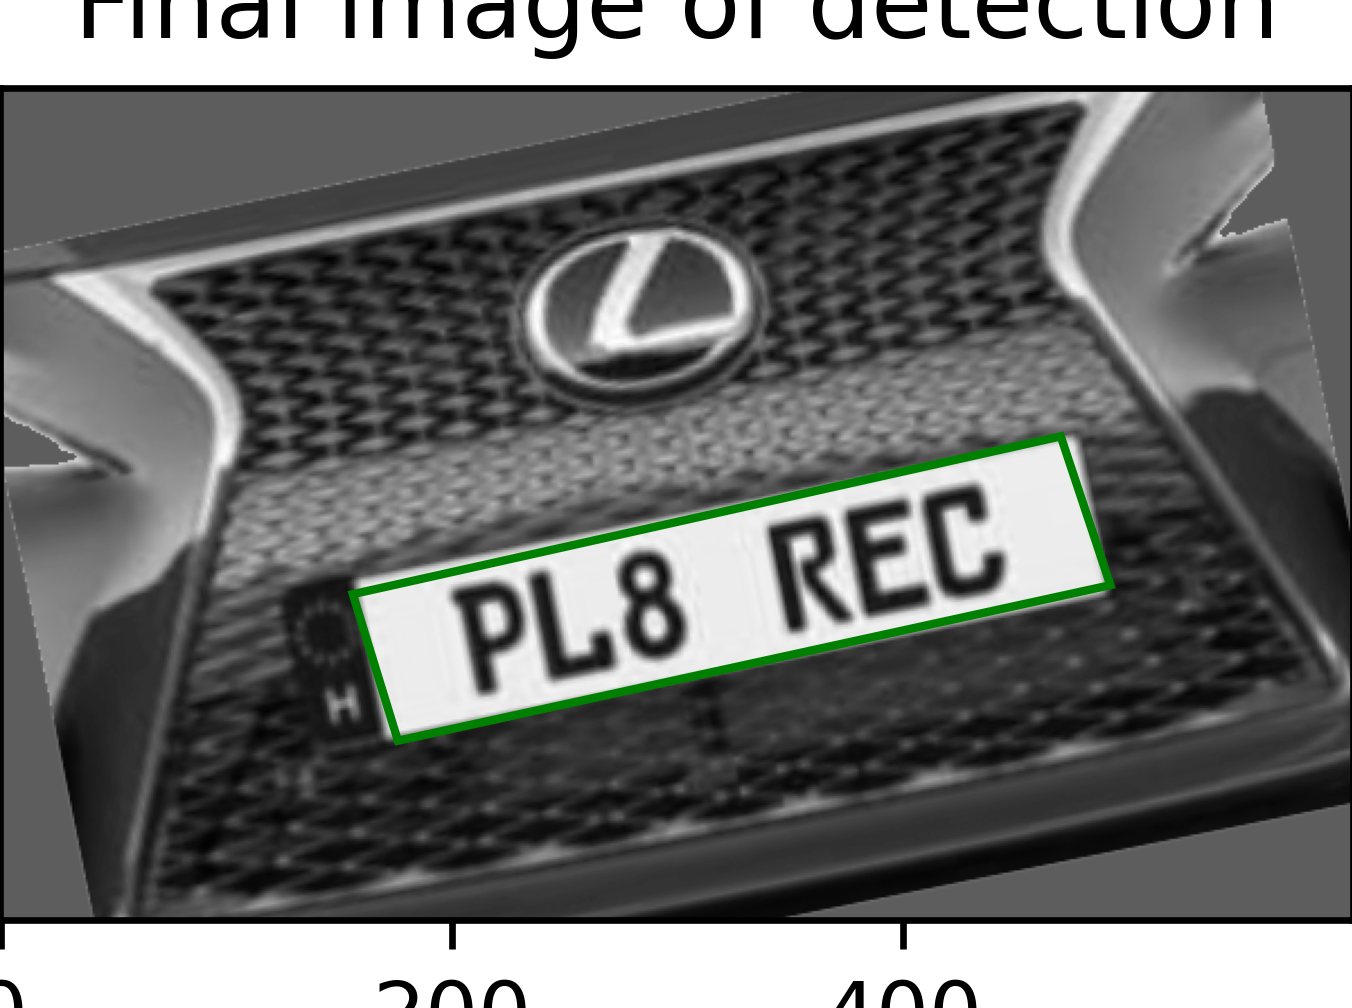
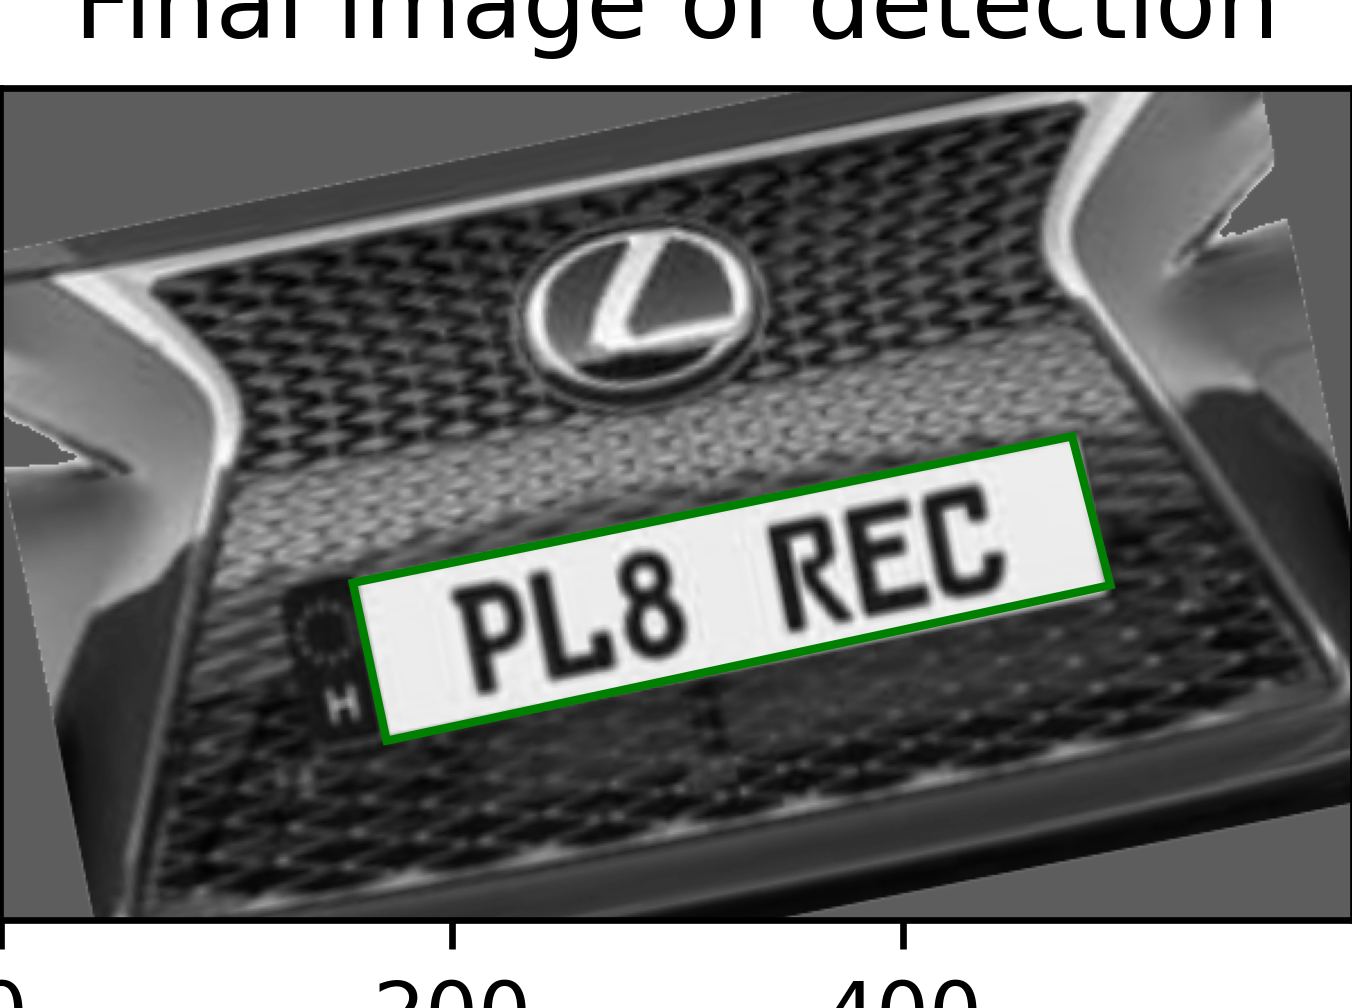
implemented detection for counterclockwise rotation aswell

diff --git a/CS373Extension.py b/CS373Extension.py
@@ -222,8 +222,8 @@ def computeConnectedComponentLabeling(pixel_array, image_width, image_height):
     
     return pixel_array, labels
 
-# Points in order, xmin,ymin,xmax,ymax
-def computeBoundaryBoxBounds(image_width, image_height, connectedComponents_array, largestComponentLabel):
+# Points in order, xmin,ymin,xmax,ymax for a clockwise rotation
+def computeBoundaryBoxBoundsClockwise(image_width, image_height, connectedComponents_array, largestComponentLabel):
     points = [[0 for x in range(2)] for y in range(4)]
     points[0][0] = image_width
     points[1][1] = image_height
@@ -237,6 +237,24 @@ def computeBoundaryBoxBounds(image_width, image_height, connectedComponents_arra
                 if(points[2][0]<x):
                     points[2] = [x, y]
                 if(points[3][1]<=y):
+                    points[3] = [x, y]
+    return points
+
+# Points in order, xmin,ymin,xmax,ymax for a counterclockwise rotation
+def computeBoundaryBoxBoundsCounterclockwise(image_width, image_height, connectedComponents_array, largestComponentLabel):
+    points = [[0 for x in range(2)] for y in range(4)]
+    points[0][0] = image_width
+    points[1][1] = image_height
+    for x in range(image_width):
+        for y in range(image_height):
+            if(connectedComponents_array[y][x]==largestComponentLabel):
+                if(points[0][0]>x):
+                    points[0] = [x, y]
+                if(points[1][1]>=y):
+                    points[1] = [x, y]
+                if(points[2][0]<=x):
+                    points[2] = [x, y]
+                if(points[3][1]<y):
                     points[3] = [x, y]
     return points
 
@@ -256,12 +274,12 @@ def boxHasExpectedRatio(points):
     xSize = points[2][0] - points[0][0]
     ySize = points[3][1] - points[1][1]
     ratio = xSize/ySize
-    if(1.5<=ratio and ratio<=5):
+    if(0.2<=ratio and ratio<=5):
         return True
     else:
         return False
 
-# Creates a normal bounding box using the x_min=[0][0],y-min=[1][1],x_max=[2][0],y_max=[3][1], co-ords
+# Creates a normal bounding box using the x_min=[0][0],y_min=[1][1],x_max=[2][0],y_max=[3][1], co-ords
 def makeBasicBoundaryBox(points):
     newPoints = [[0 for x in range(2)] for y in range(4)]
     newPoints[0][0]=points[0][0]
@@ -293,12 +311,20 @@ def getAngle(a,b,c):
     if angle < 0: angle += 360
     return angle
 
-# incomplete, only works for clockwise rotated plates, calculates the rotation of a number plate
+# returns rotation required to get numberplate to align with the horizontal axis
 def getRotation(points):
-    line1x = points[3][0] - points[0][0]
-    line1y = points[3][1] - points[0][1]
-    line2x = points[2][0] - points[1][0]
-    line2y = points[2][1] - points[1][1]
+    if((math.dist(points[3],points[0])+math.dist(points[1],points[2])) > (math.dist(points[1],points[0])+math.dist(points[3],points[2]))):
+        # if rotated clockwise
+        line1x = points[3][0] - points[0][0]
+        line1y = points[3][1] - points[0][1]
+        line2x = points[2][0] - points[1][0]
+        line2y = points[2][1] - points[1][1]
+    else:
+        # if rotated counterclockwise
+        line1x = points[2][0] - points[3][0]
+        line1y = points[2][1] - points[3][1]
+        line2x = points[1][0] - points[0][0]
+        line2y = points[1][1] - points[0][1]
     line1Angle = math.atan2(line1y, line1x)
     line2Angle = math.atan2(line2y, line2x)
     angle = math.degrees((line1Angle+line2Angle)/2)
@@ -364,13 +390,13 @@ def main():
 
     # Find label with largest size and compute a bounding box
     largestComponentLabel = extractLargestLabel(connectedComponents_labels)
-    boundaryPoints = computeBoundaryBoxBounds(image_width, image_height, connectedComponents_array, largestComponentLabel)
+    boundaryPoints = computeBoundaryBoxBoundsClockwise(image_width, image_height, connectedComponents_array, largestComponentLabel)
     
     #attempt to find a bounding box with correct ratio 3 times
     if not (boxHasExpectedRatio(boundaryPoints)):
         for i in range(3):
             tempLabel = extractLargestLabel(connectedComponents_labels)
-            tempPoints = computeBoundaryBoxBounds(image_width, image_height, connectedComponents_array, tempLabel)
+            tempPoints = computeBoundaryBoxBoundsClockwise(image_width, image_height, connectedComponents_array, tempLabel)
             if(boxHasExpectedRatio(tempPoints)):
                 largestComponentLabel = tempLabel
                 boundaryPoints = tempPoints
@@ -381,6 +407,11 @@ def main():
     # Compute optimal boundary box
     if(boundaryAnglesInvalid(boundaryPoints,1.08)):
         boundaryPoints = makeBasicBoundaryBox(boundaryPoints)
+    else:
+        if (getRotation(boundaryPoints) < 0):
+            boundaryPoints = computeBoundaryBoxBoundsCounterclockwise(image_width, image_height, connectedComponents_array, largestComponentLabel)
+        
+        print("The rotation of the liscense plate is: " + str(round(getRotation(boundaryPoints),1)) + " degrees")
         
 
     # Draw a bounding box as a rectangle into the input image

diff --git a/README.md b/README.md
@@ -1,7 +1,3 @@
 # 2022_S1_CS373_AssignmentSkeleton
 
-This repository provides a Python 3 code skeleton for the image processing assignment of CompSci 373 in Semester 1, 2022.
-
-This assignment will require you to use what we have studied in the image processing lectures to generate a software that detects license plates in images of cars - a technology that is used routinely for example on toll roads for automatic toll pricing.
-
-You will receive 10 marks for solving the license plate detection problem, and there will be an additional component for 5 marks, where you will extend upon the license plate detection, and write a short reflective report about your extension.
+The extension is named CS373Extension.py and is run the same way the main task is run, no additional libraries must be loaded for the extension to work.
